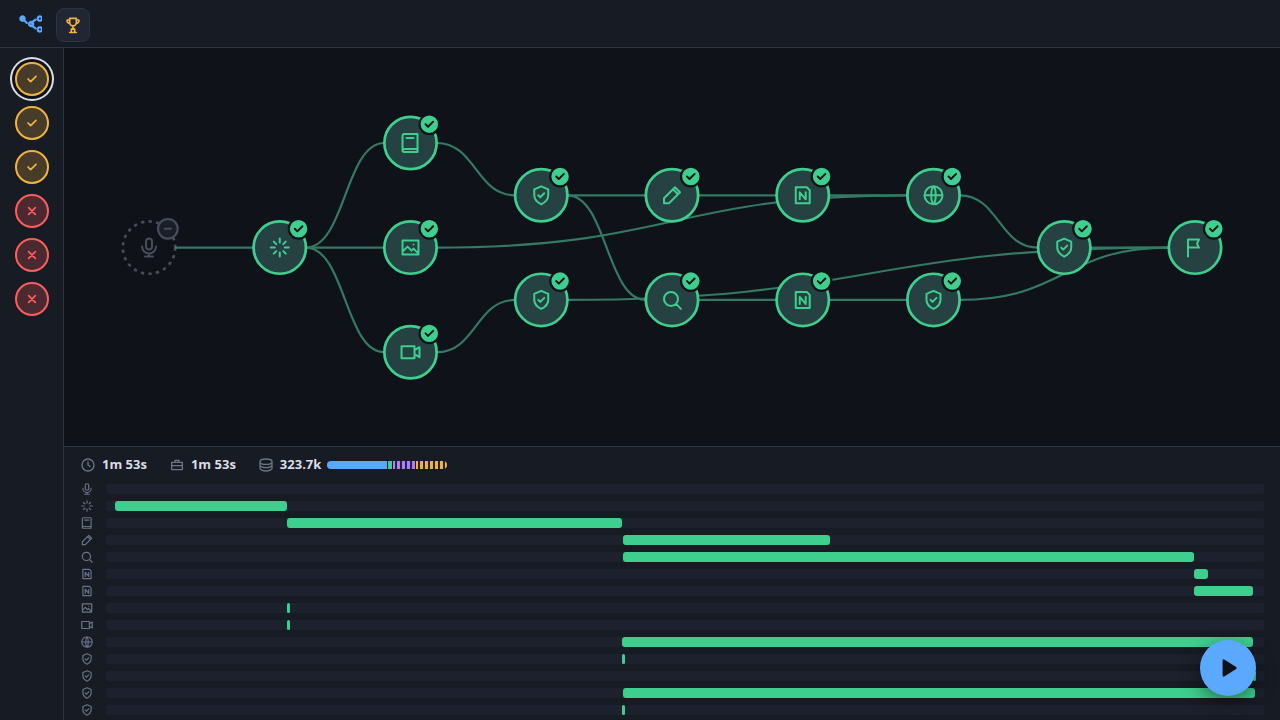
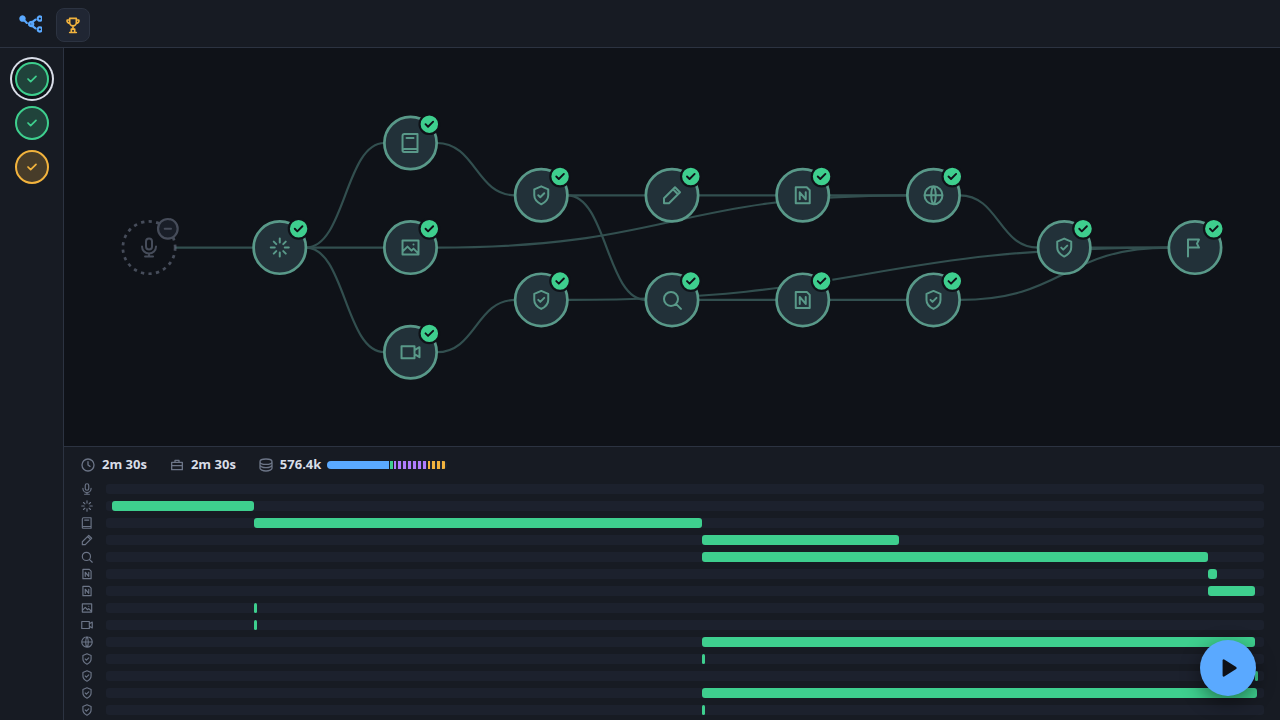
[wo-ff696957] Real console run reaches done for transcript and video (#105)
* [wo-60b5fec1] kb_curator: full vault context, append-style theme updates

Snapshot sends every theme body and the full book-outline. Existing themes
take {entries_row, key_insight?, patterns_emerging?}; Python inserts the row
and refreshes Last updated / Entry count. new_body only for new themes.
max_tokens 8000 to 16000.

Claude-Session: https://claude.ai/code/session_01QUrrkiHw5Gq5uffQ6fnDat

* [wo-015de822] Real console runs honour custom processed_root (#103)

Real console runs honour custom processed_root

pipeline.run gains --processed-root (default PROJECT_ROOT/processed) for
run_dir and batch archive; launcher passes it for real runs.

Claude-Session: https://claude.ai/code/session_01QUrrkfK8v8rumaQFLd3whz

* [wo-ff696957] real.spec.js: assert run.json status done and verdict PASS

Claude-Session: https://claude.ai/code/session_01QUrrkj6Lq79C8FqFH8JNGD

* [wo-ff696957] Real-run screenshots: transcript and video done/PASS

Claude-Session: https://claude.ai/code/session_01QUrrkj6Lq79C8FqFH8JNGD

---------

diff --git a/pipeline/ui/e2e/tests/real.spec.js b/pipeline/ui/e2e/tests/real.spec.js
@@ -1,6 +1,7 @@
 // @real sandbox runs through the console (spec 2026-10-31-pipeline-console-ui §10.3). Opt-in: `npm run test:real`.
 import { test, expect } from '@playwright/test';
 import { execFileSync } from 'node:child_process';
+import fs from 'node:fs';
 import path from 'node:path';
 import { fileURLToPath } from 'node:url';
 
@@ -35,6 +36,9 @@ for (const r of RUNS) {
 
     const item = page.getByTestId(`run-${runId}`);
     await expect(item).toHaveAttribute('data-status', 'done', { timeout: RUN_MS });
+    const runJson = JSON.parse(fs.readFileSync(path.join(REPO, 'processed', runId, 'langgraph', 'run.json'), 'utf8'));
+    console.log(`[real] ${r.kind} run.json status=${runJson.status} verdict=${runJson.verdict}`);
+    expect({ status: runJson.status, verdict: runJson.verdict }).toEqual({ status: 'done', verdict: 'PASS' });
     await page.reload(); // fresh run list item carries the final verdict
     await expect(page.getByTestId(`run-${runId}`)).toHaveAttribute('data-verdict', 'PASS');
     await expect(page.getByTestId('node-transcribe')).toHaveAttribute('data-state', r.transcribe);
